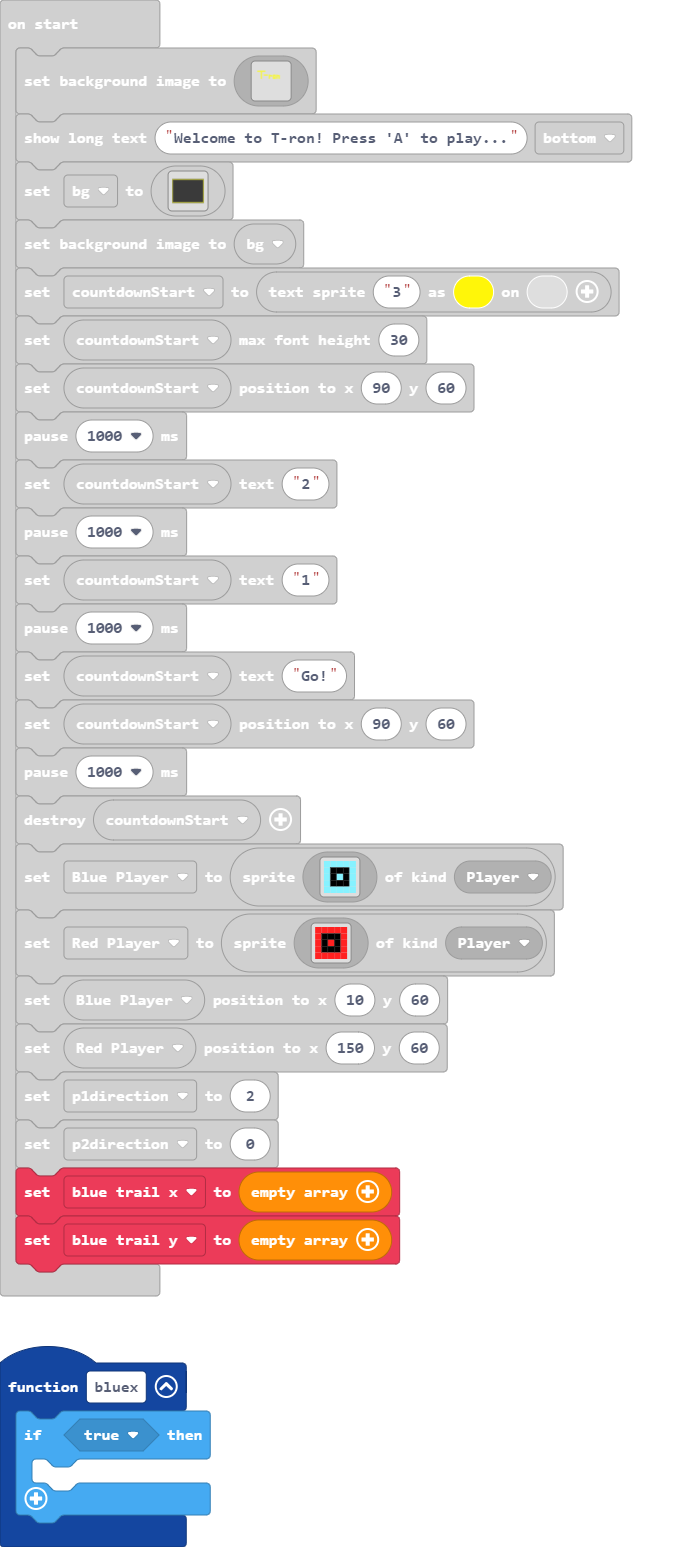
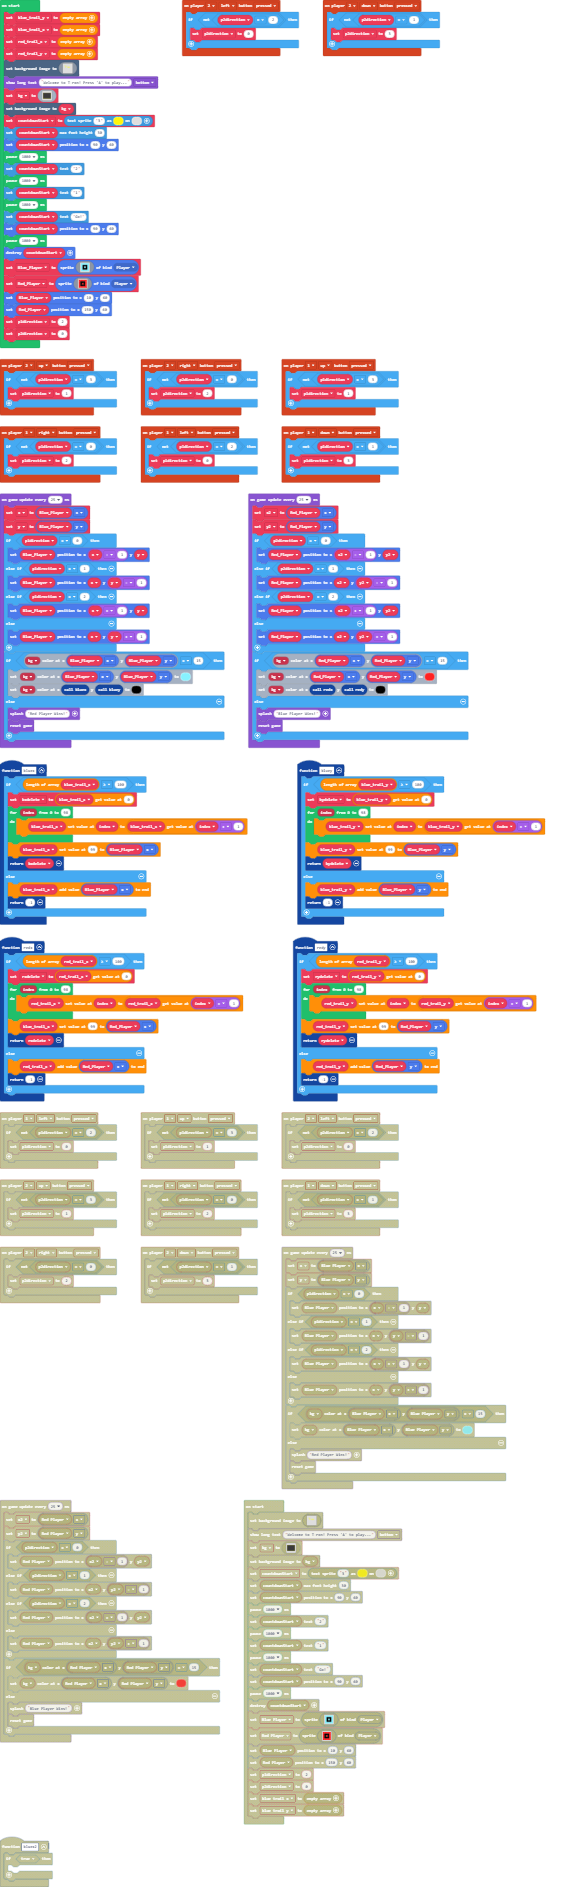
trails

diff --git a/main.ts b/main.ts
@@ -6,6 +6,19 @@ controller.player1.onButtonEvent(ControllerButton.Up, ControllerButtonEvent.Pres
         p1direction = 1
     }
 })
+function redy () {
+    if (red_trail_y.length >= 100) {
+        rydelete = red_trail_y[0]
+        for (let index = 0; index <= 98; index++) {
+            red_trail_y[index] = red_trail_y[index + 1]
+        }
+        red_trail_y[99] = Red_Player.y
+        return rydelete
+    } else {
+        red_trail_y.push(Red_Player.y)
+        return -1
+    }
+}
 controller.player2.onButtonEvent(ControllerButton.Down, ControllerButtonEvent.Pressed, function () {
     if (!(p2direction == 1)) {
         p2direction = 3
@@ -32,8 +45,42 @@ controller.player1.onButtonEvent(ControllerButton.Right, ControllerButtonEvent.P
     }
 })
 function bluex () {
-    if (true) {
-    	
+    if (blue_trail_x.length >= 100) {
+        bxdelete = blue_trail_x[0]
+        for (let index = 0; index <= 98; index++) {
+            blue_trail_x[index] = blue_trail_x[index + 1]
+        }
+        blue_trail_x[99] = Blue_Player.x
+        return bxdelete
+    } else {
+        blue_trail_x.push(Blue_Player.x)
+        return -1
+    }
+}
+function bluey () {
+    if (blue_trail_y.length >= 100) {
+        bydelete = blue_trail_y[0]
+        for (let index = 0; index <= 98; index++) {
+            blue_trail_y[index] = blue_trail_y[index + 1]
+        }
+        blue_trail_y[99] = Blue_Player.y
+        return bydelete
+    } else {
+        blue_trail_y.push(Blue_Player.y)
+        return -1
+    }
+}
+function redx () {
+    if (red_trail_x.length >= 100) {
+        rxdelete = red_trail_x[0]
+        for (let index = 0; index <= 98; index++) {
+            red_trail_x[index] = red_trail_x[index + 1]
+        }
+        blue_trail_x[99] = Red_Player.x
+        return rxdelete
+    } else {
+        red_trail_x.push(Red_Player.x)
+        return -1
     }
 }
 controller.player1.onButtonEvent(ControllerButton.Left, ControllerButtonEvent.Pressed, function () {
@@ -50,8 +97,22 @@ let y2 = 0
 let x2 = 0
 let y = 0
 let x = 0
+let rxdelete = 0
+let bydelete = 0
+let bxdelete = 0
+let rydelete = 0
 let p2direction = 0
 let p1direction = 0
+let Red_Player: Sprite = null
+let Blue_Player: Sprite = null
+let red_trail_y: number[] = []
+let red_trail_x: number[] = []
+let blue_trail_x: number[] = []
+let blue_trail_y: number[] = []
+blue_trail_y = []
+blue_trail_x = []
+red_trail_x = []
+red_trail_y = []
 scene.setBackgroundImage(img`
     ................................................................................................................................................................
     ................................................................................................................................................................
@@ -310,14 +371,14 @@ countdownStart.setText("Go!")
 countdownStart.setPosition(90, 60)
 pause(1000)
 countdownStart.destroy()
-let Blue_Player = sprites.create(img`
+Blue_Player = sprites.create(img`
     9 9 9 9 9 
     9 f f f 9 
     9 f 9 f 9 
     9 f f f 9 
     9 9 9 9 9 
     `, SpriteKind.Player)
-let Red_Player = sprites.create(img`
+Red_Player = sprites.create(img`
     2 2 2 2 2 
     2 f f f 2 
     2 f 2 f 2 
@@ -328,8 +389,6 @@ Blue_Player.setPosition(10, 60)
 Red_Player.setPosition(150, 60)
 p1direction = 2
 p2direction = 0
-let blue_trail_x: number[] = []
-let blue_trail_y: number[] = []
 game.onUpdateInterval(25, function () {
     x = Blue_Player.x
     y = Blue_Player.y
@@ -344,6 +403,7 @@ game.onUpdateInterval(25, function () {
     }
     if (bg.getPixel(Blue_Player.x, Blue_Player.y) == 15) {
         bg.setPixel(Blue_Player.x, Blue_Player.y, 9)
+        bg.setPixel(bluex(), bluey(), 15)
     } else {
         game.splash("Red Player Wins!")
         game.reset()
@@ -363,6 +423,7 @@ game.onUpdateInterval(25, function () {
     }
     if (bg.getPixel(Red_Player.x, Red_Player.y) == 15) {
         bg.setPixel(Red_Player.x, Red_Player.y, 2)
+        bg.setPixel(redx(), redy(), 15)
     } else {
         game.splash("Blue Player Wins!")
         game.reset()
